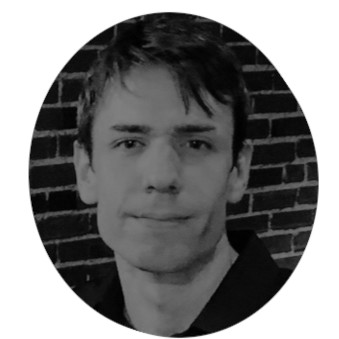
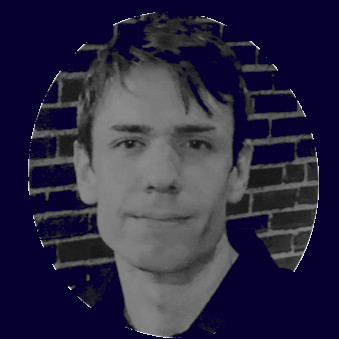
added styling to about page and additional validations to contact form.

diff --git a/Blog_Project/about.html b/Blog_Project/about.html
@@ -33,14 +33,14 @@
           </ul>
     </div>
     <!--MAIN CONTENT-->
-    <div class="container-fluid">
+    <div class="container-fluid about_bg">
 
         <!--Filler-->
         <div class="row header"><div class="col-md-12 blue-bg">
           <h1>Web Coffee</h1>
         </div></div>
 
-        <div><h2>About</h2></div>
+        <div class="about_header"><h2>About Web Coffee</h2></div>
         
         <div class="row">
   
@@ -50,9 +50,12 @@
           <div class="col-md about_blogs">
           <h3>About the Blog Criteria</h3>
           <p>The following will explain how blog criteria is categorized and what to expect from the site.</p>
-          </div>
+          <svg width="4em" height="4em" viewBox="0 0 16 16" class="bi bi-book-half" fill="currentColor" xmlns="http://www.w3.org/2000/svg">
+            <path fill-rule="evenodd" d="M8.5 2.687v9.746c.935-.53 2.12-.603 3.213-.493 1.18.12 2.37.461 3.287.811V2.828c-.885-.37-2.154-.769-3.388-.893-1.33-.134-2.458.063-3.112.752zM8 1.783C7.015.936 5.587.81 4.287.94c-1.514.153-3.042.672-3.994 1.105A.5.5 0 0 0 0 2.5v11a.5.5 0 0 0 .707.455c.882-.4 2.303-.881 3.68-1.02 1.409-.142 2.59.087 3.223.877a.5.5 0 0 0 .78 0c.633-.79 1.814-1.019 3.222-.877 1.378.139 2.8.62 3.681 1.02A.5.5 0 0 0 16 13.5v-11a.5.5 0 0 0-.293-.455c-.952-.433-2.48-.952-3.994-1.105C10.413.809 8.985.936 8 1.783z"/>
+          </svg>
+        </div>
 
-          <div class="col-md"><!--Languages-->
+          <div class="col-md blog_cat"><!--Languages-->
             <h3>Programming Languages</h3>
               <p>This is a broad category but worth exploring as the web's different disciplines are constantly evolving and receiving auxillary modules.
                 Naturally this section will be focused more on aiding other developers to either get their start or further advance their current skill
@@ -60,7 +63,7 @@
                 to provide useful insight in such languages such as JavaScript and HTML/CSS and that the development community will respond with its own
                 input.</p>
           </div>
-          <div class="col-md"><!--Web Tech-->
+          <div class="col-md blog_cat"><!--Web Tech-->
             <h3>Web Based Technology</h3>
             <p>We live in exciting times! With the expansion of the Cloud and IoT we are seeing an ever-increasingly virtual mirror against our physical world.
               Automated devices and machines are better interconnected with business needs. Movement and handling of goods have achieved a higher level of 
@@ -68,7 +71,7 @@
               exciting new technologies is an all too interesting point of discussion. We hope that a better understanding of said technology will be curated
               here on Web Coffee. </p>
           </div>
-          <div class="col-md"><!--Best Practices-->
+          <div class="col-md blog_cat"><!--Best Practices-->
             <h3>Best Practices</h3>
             <p>
               Yet another broad category. However, an all too necessary topic when handling web development's more complex intricacies. The idea behind this 
@@ -83,17 +86,17 @@
         <!--About Myself-->
         <div class="row">
             <div class="col-md-2"></div>
-            <div class="col-md-2"><!--Picture-->
-              
+            <div class="col-md-2 profile_pic"><!--Picture-->
+              <img src="images/my_pic.jpg" alt="admin">
             </div>
-            <div class="col-md-6"><!--Description-->
+            <div class="col-md-6 admin_desc"><!--Description-->
               <h3>About the Admin</h3>
               <p>Brad Boutaugh is a software engineer at Tata Consultancy Services Ltd. with a background in business and computer science. His past studies 
-                have focused on such areas as java software development, artificial intelligence, and web development. He manages Web Coffee while also 
+                have focused on such areas as java software development, machine learning, and web development. He manages Web Coffee while also 
                 authoring some of the blogs featured on the site. Altogether, our site is committed to enabling others to convey their thoughts and opinions.</p>
                 <hr>
-                <i>“Search others for their virtues, thy self for thy vices.”</i><p>Benjamin Franklin</p>
-            </div>>
+                <i>“Search others for their virtues, thy self for thy vices.”</i><b>Benjamin Franklin</b>
+            </div>
             <div class="col-md-2"></div>
         </div>
         

diff --git a/Blog_Project/styles.css b/Blog_Project/styles.css
@@ -1,6 +1,5 @@
 body *
 {
-    border: 2px solid red;
     font-family: 'Roboto', sans-serif;
 }
 
@@ -44,12 +43,13 @@ text-decoration:none;
     text-align:center;
     color:gold;
     padding:10px;
+    font-size: 5px;
 }
 
 .header h1
 {
     padding:20px;
-    font-size: 80px;
+    font-size: 55px;
 }
 
 .row
@@ -153,8 +153,74 @@ background-color:rgb(66, 66, 94);
     background-size:cover;
 }
 
+
 /*About Styling*/
 .about_blogs
 {
-    height:100%;
+    padding:5px;
+    margin-bottom:auto;
+    background-color:midnightblue;
+    color:white;
+}
+
+.about_blogs h3
+{
+    padding-bottom:20px;
+    font-size:25px;
+}
+
+.about_blogs svg
+{
+    margin:auto;
+}
+
+.blog_cat
+{
+background-color:rgb(147, 203, 252,0.85);
+margin:0px 10px 10px;
+}
+
+.blog_cat h3
+{
+    color:midnightblue;
+    font-size:30px;
+}
+
+.blog_cat p
+{
+    font-size:15px;
+}
+
+.profile_pic img
+{
+    width:230px;
+    text-align:center;
+    border: 2px solid white;
+}
+
+.admin_desc
+{
+   padding:10px; 
+   border-radius:10px;
+   background-color:rgb(120, 120, 129,0.85);
+   font-size:20px;
+}
+
+.admin_desc i 
+{
+    font-size:22px;
+    padding-right:5px;
+}
+
+.about_bg
+{
+    background-image: url("images/house_tiles.jpg");
+}
+
+.about_header
+{
+    text-align: center;
+    color:midnightblue;
+    font-size:50px;
+    background-color:aliceblue;
 }

diff --git a/Blog_Project/contact.html b/Blog_Project/contact.html
@@ -46,9 +46,17 @@
             <div class="col-md-6 contact">
               <h2>Please contact us via the form below and we will get back ASAP:</h2>
               <form id="contact_form">
-                <label for="name">Name: </label><input type="text" name="name" required><br>
-                <label for="email">Email: </label><input type="email" name="email" required><br>
-                <label for="phone">Phone: </label><input type="text" name="phone" required><br>
+                <table>
+                  <tr>
+                    <td> <label for="name">Name: </label></td><td><input type="text" name="name" required></td>
+                  </tr>
+                  <tr>
+                    <td><label for="email">Email: </label></td><td><input type="email" name="email" required></td>
+                  </tr>
+                  <tr>
+                    <td><label for="phone">Phone: </label></td><td><input type="text" name="phone" required></td>
+                  </tr>
+                </table>
                 <label for="message">Message:</label><br><textarea name="message" rows=10 cols="40"></textarea>
                 <br>
                 <button type="button" onclick="confirmMessage()">Submit</button>

diff --git a/Blog_Project/blogs.html b/Blog_Project/blogs.html
@@ -117,7 +117,7 @@
                         or Hypertext Preprocessor, is a server side scripting language, both are generally used for server-side programming. To 
                         that end, it is worth weighing their merits. Indeed, neither one nor the other could not necessarily be said to better. 
                         On a general level, JSP technology far outweighs PHP in versatility and utility. JSP carries extensive library support,
-                        object caching, and session maintenance towards its primary benefit of web dynamism. By this comparison, it is a much 
+                        object caching, and session maintenance towards its primary benefit of web dynamism. By this comparison, PHP is a much 
                         lighter package only supporting server-side transactions alongside a few other basic web solutions by extension of 
                         its status as a general programming language. Otherwise, the dominance of one over the other is dependent on the situation.
                         In spite of PHP's lack of robustness, it is also smaller and quicker then the JSP package. This makes PHP more ideal for 

diff --git a/Blog_Project/jscript.js b/Blog_Project/jscript.js
@@ -41,10 +41,20 @@ function confirmMessage()
     var email = document.getElementById("contact_form").elements.email.value;
     var phone = document.getElementById("contact_form").elements.phone.value;
     var message = document.getElementById("contact_form").elements.message.value;
+    emailRegex = /^[a-zA-Z0-9.!#$%&'*+/=?^_`{|}~-]+@[a-zA-Z0-9-]+(?:\.[a-zA-Z0-9-]+)*$/;
+    phoneRegex = /^\d{10}$/;
 
     if(name =="" || email == "" || phone =="" || message == "")
     {
         alert("Please fill out all form criteria.");
+    }
+    else if(!(emailRegex.test(email)))
+    {
+        alert("Incorrect email syntax. Please use correct syntax.");
+    }
+    else if(!(phoneRegex.test(phone)))
+    {
+        alert("Please enter a valid phone number.");
     }
     else
     {
